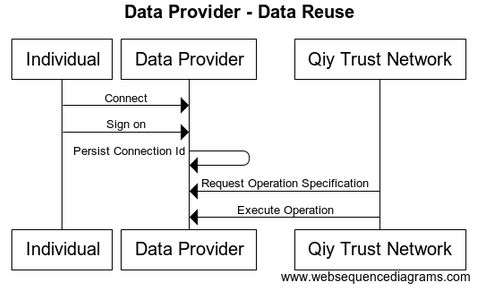
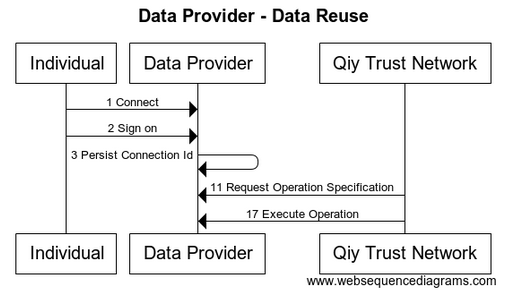
Updated section 3.2 of Functional Specification
As part of #2.

Changed region(s): [[0.0, 0.1229, 0.9938, 0.9829], [0.2484, 0.0, 0.7453, 0.0922]]

diff --git a/Functional Specification.md b/Functional Specification.md
@@ -75,7 +75,7 @@ The remainder of this document describes the scenarios for the different roles a
 
 ## 3.1 Setup
 
-This section describes a scenario of a [Data Provider](Definitions.md#data-provider) acquiring access to the Qiy Trust Network as an introduction to the full description provided in [UC01 Acquire Access to Qiy Trust Network](./use-cases/UC01%20Acquire%20Access%20to%20Qiy%20Trust%20Network.md).
+This section describes a scenario of a [Data Provider](Definitions.md#data-provider) acquiring access to the [Qiy Trust Network](Definitions.md#qiy-trust-network).
 
 ![Data Provider - Setup](./images/Data_Provider_-_Setup_-_Functional_Specification.png)
 
@@ -97,7 +97,7 @@ The remaining steps for a [Data Provider](Definitions.md#data-provider) in order
 
 ## 3.2 Data Reuse
 
-tbd
+The flow for a [Data Provider](Definitions.md#data-provider) in the scenario described in [6 Data Reuse scenario](#6-data-reuse-scenario) is:
 
 ![Data Provider - Data Reuse](./images/Data_Provider_-_Data_Reuse_-_Functional_Specification.png)
 
@@ -386,12 +386,12 @@ participant Individual as User
 participant "Data Provider" as DP
 participant "Qiy Trust Network" as QTF
 
-User -> DP	 	: Connect
-User -> DP	 	: Sign on
-DP-> DP         : Persist Connection Id
+User -> DP	 	: 1 Connect
+User -> DP	 	: 2 Sign on
+DP-> DP         : 3 Persist Connection Id
 
-QTF -> DP       : Request Operation Specification
-QTF -> DP: Execute Operation
+QTF -> DP       : 11 Request Operation Specification
+QTF -> DP: 17 Execute Operation
 ```
 
 
